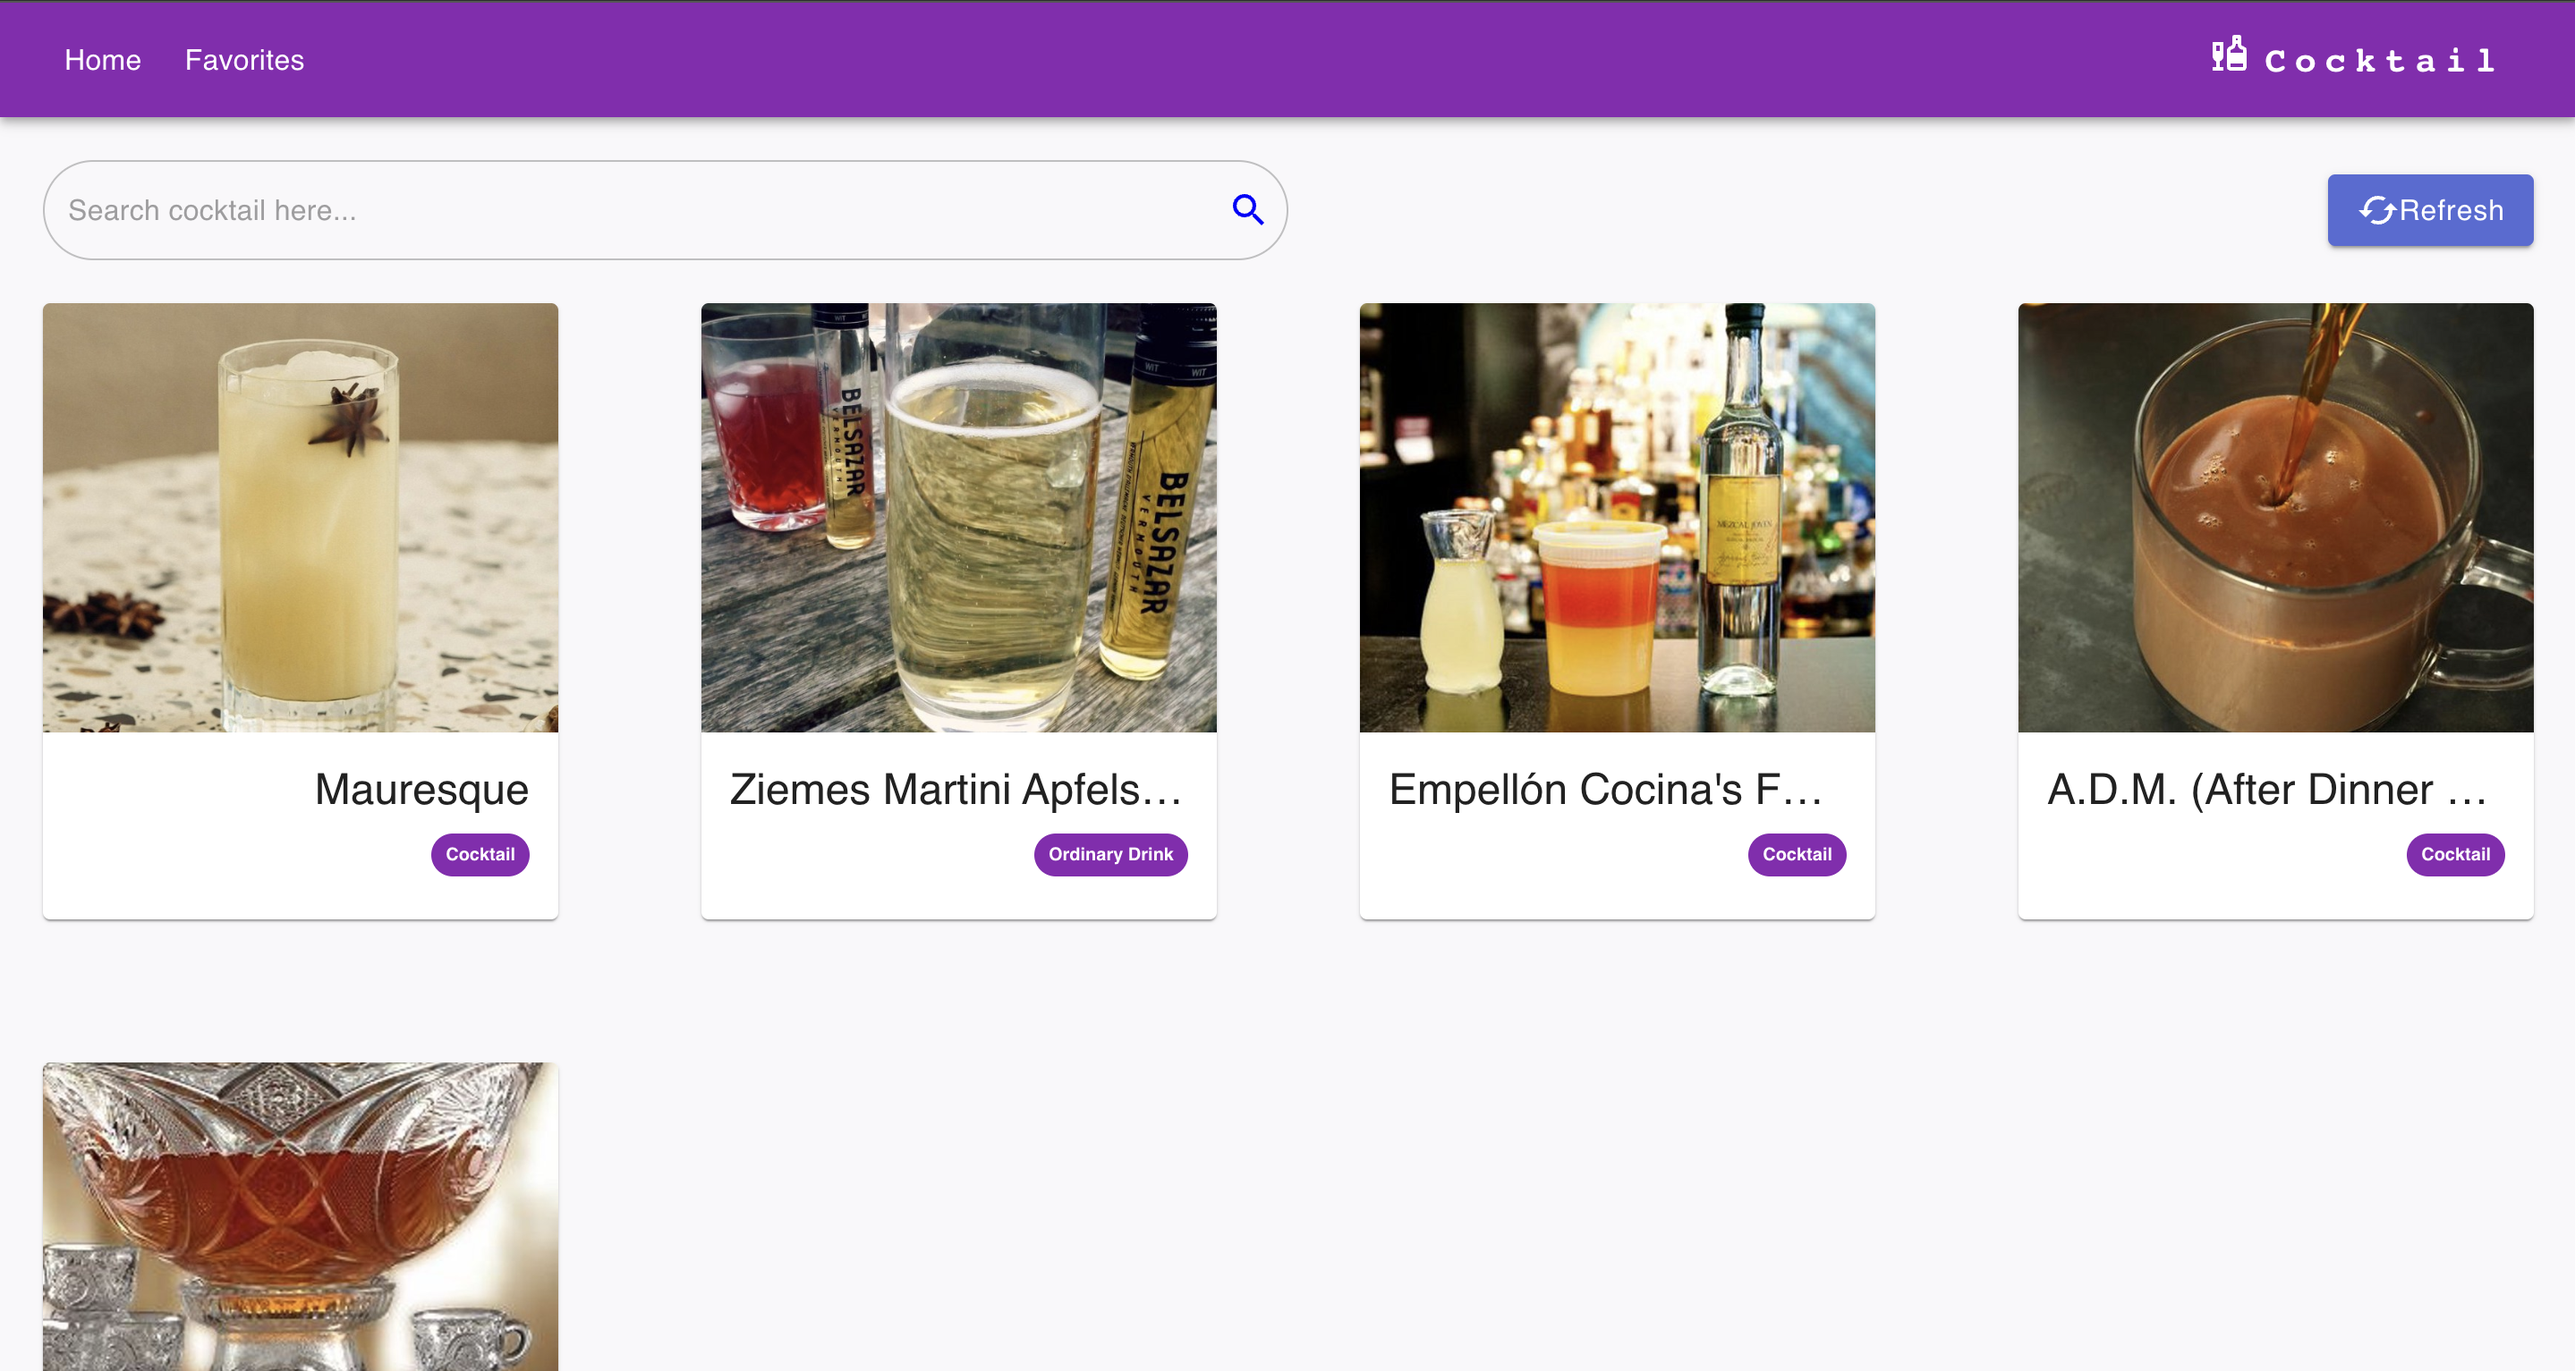
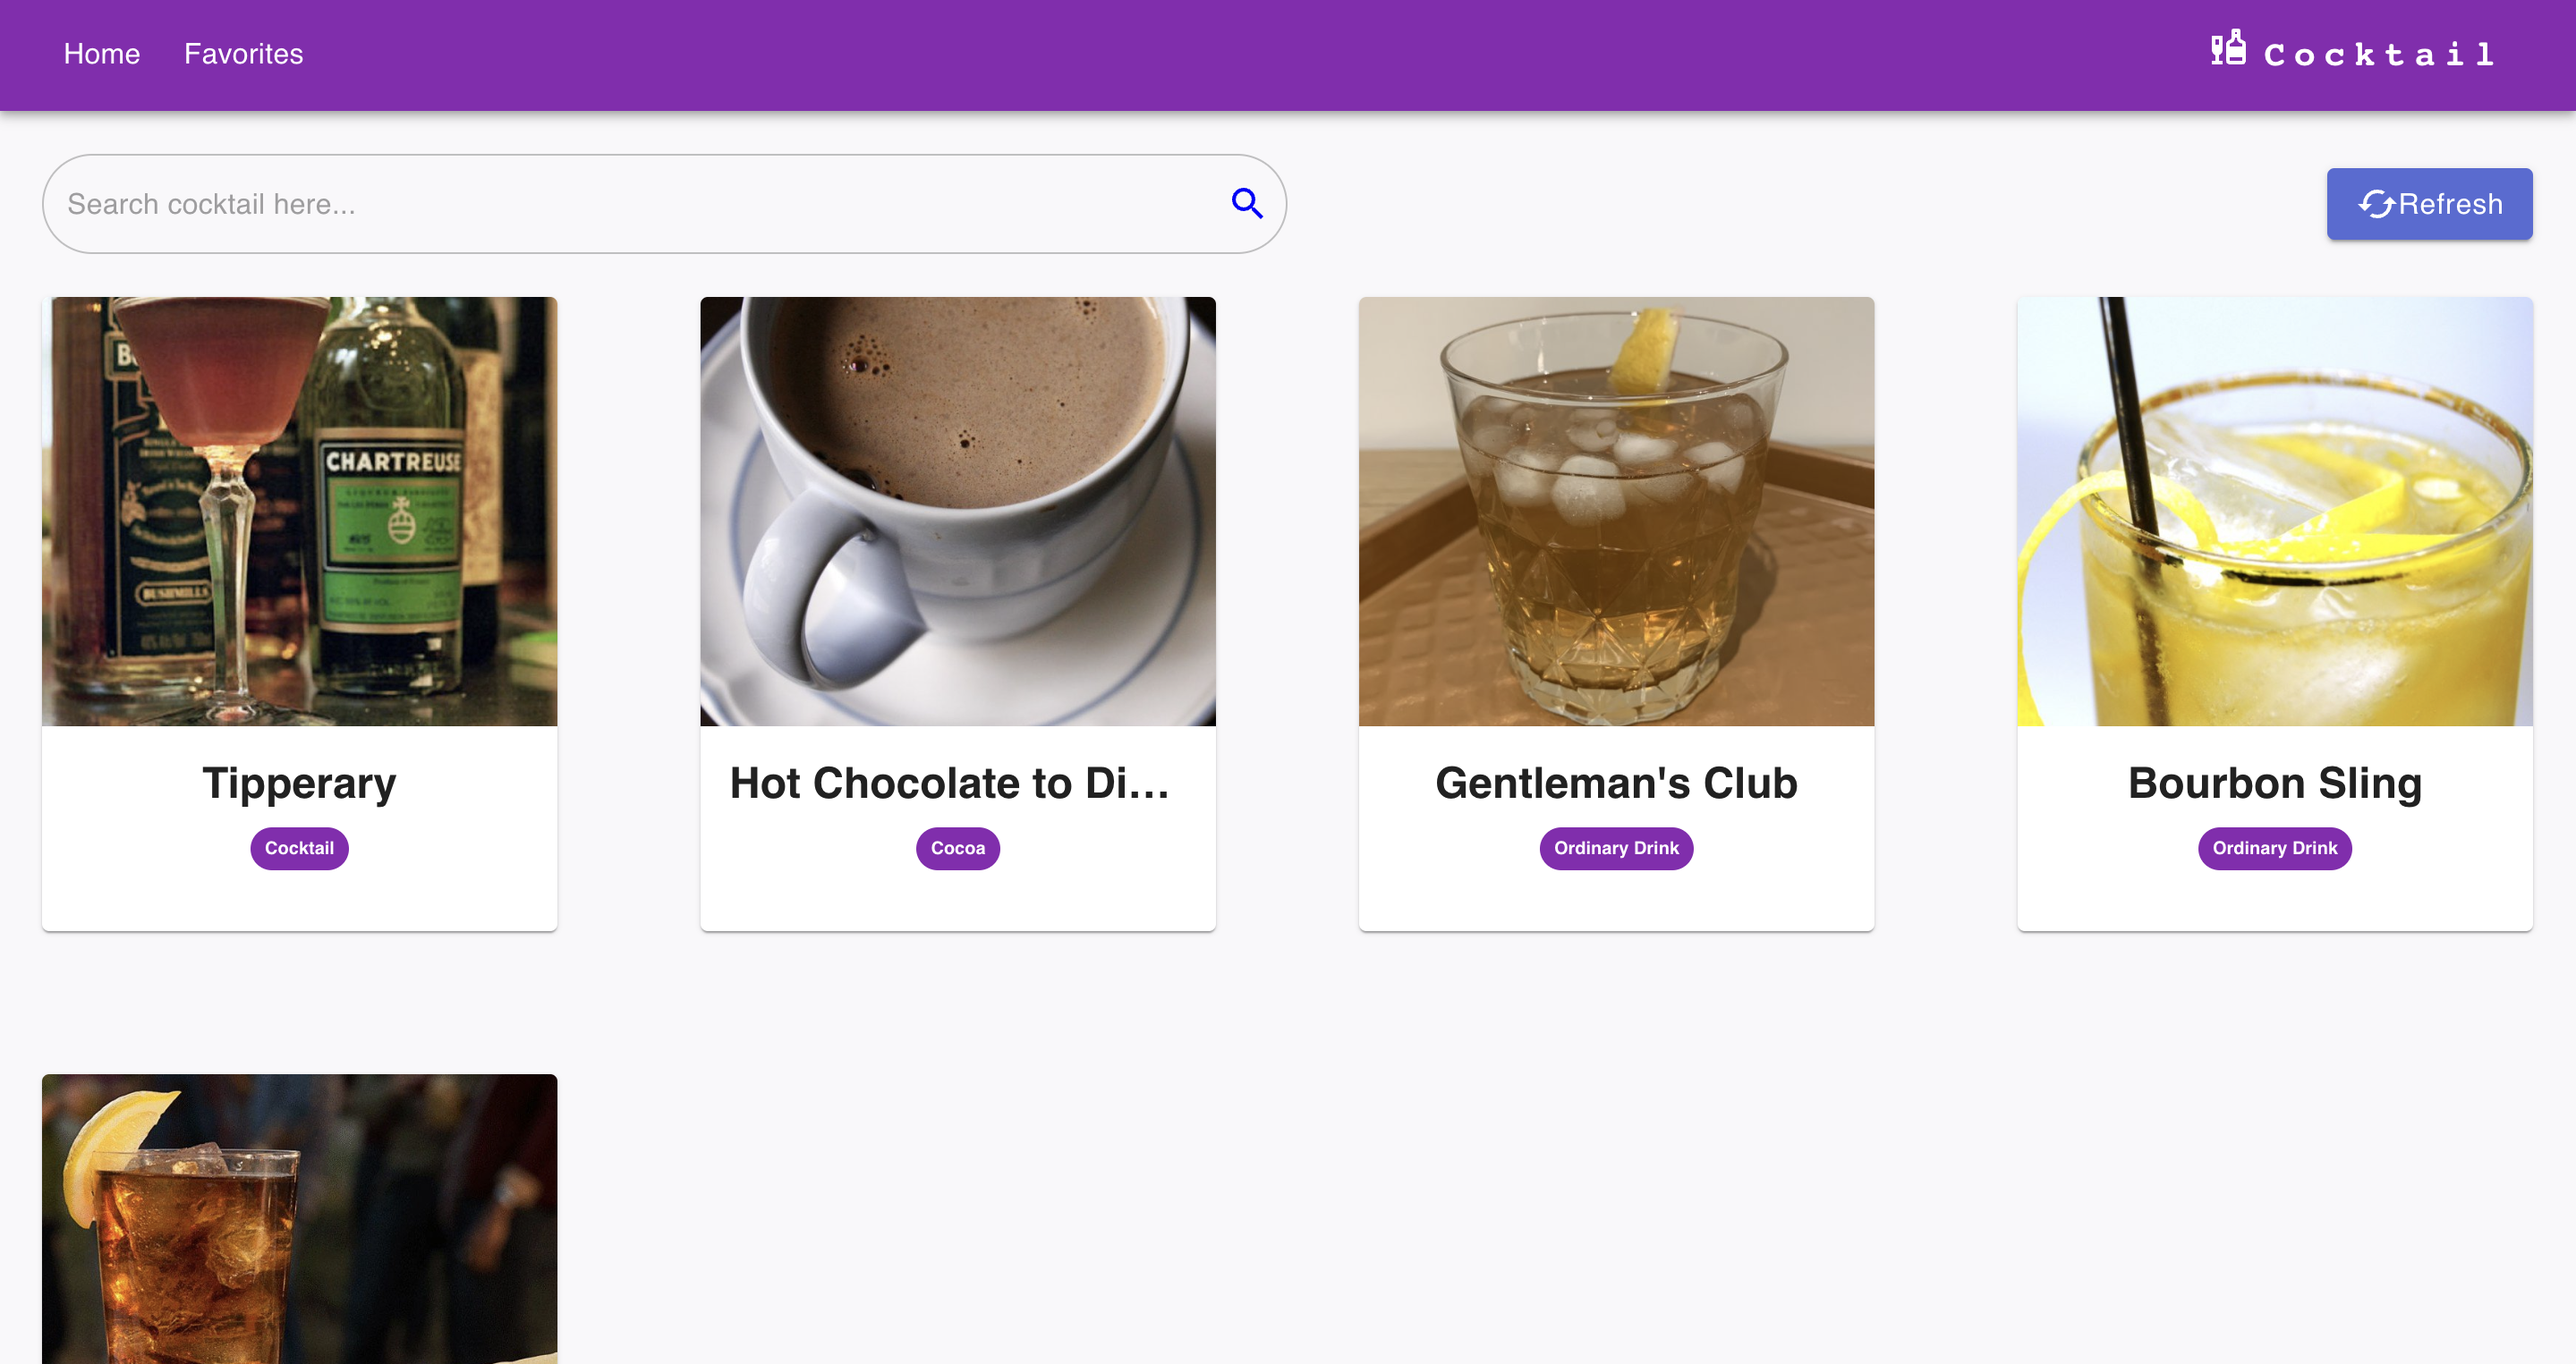
change:design change

diff --git a/src/components/organisms/cocktail-card/index.tsx b/src/components/organisms/cocktail-card/index.tsx
@@ -35,7 +35,8 @@ export const CocktailCard = ({
             textOverflow: "ellipsis",
             overflow: " hidden",
             whiteSpace: "nowrap",
-            textAlign: "right",
+            textAlign: "center",
+            fontWeight: "bold",
           }}
           aria-label="cocktail-name"
         >
@@ -46,7 +47,7 @@ export const CocktailCard = ({
             textOverflow: "ellipsis",
             overflow: " hidden",
             whiteSpace: "nowrap",
-            textAlign: "right",
+            textAlign: "center",
           }}
         >
           <Chip
@@ -61,7 +62,7 @@ export const CocktailCard = ({
           />
         </Box>
 
-        <Box style={{ textAlign: "right" }}>
+        <Box style={{ textAlign: "center", paddingTop: "10px" }}>
           {isFavoritePage && removeFavoriteItem ? (
             <DeleteForeverIcon
               aria-label={`delete-favorite${index}`}
